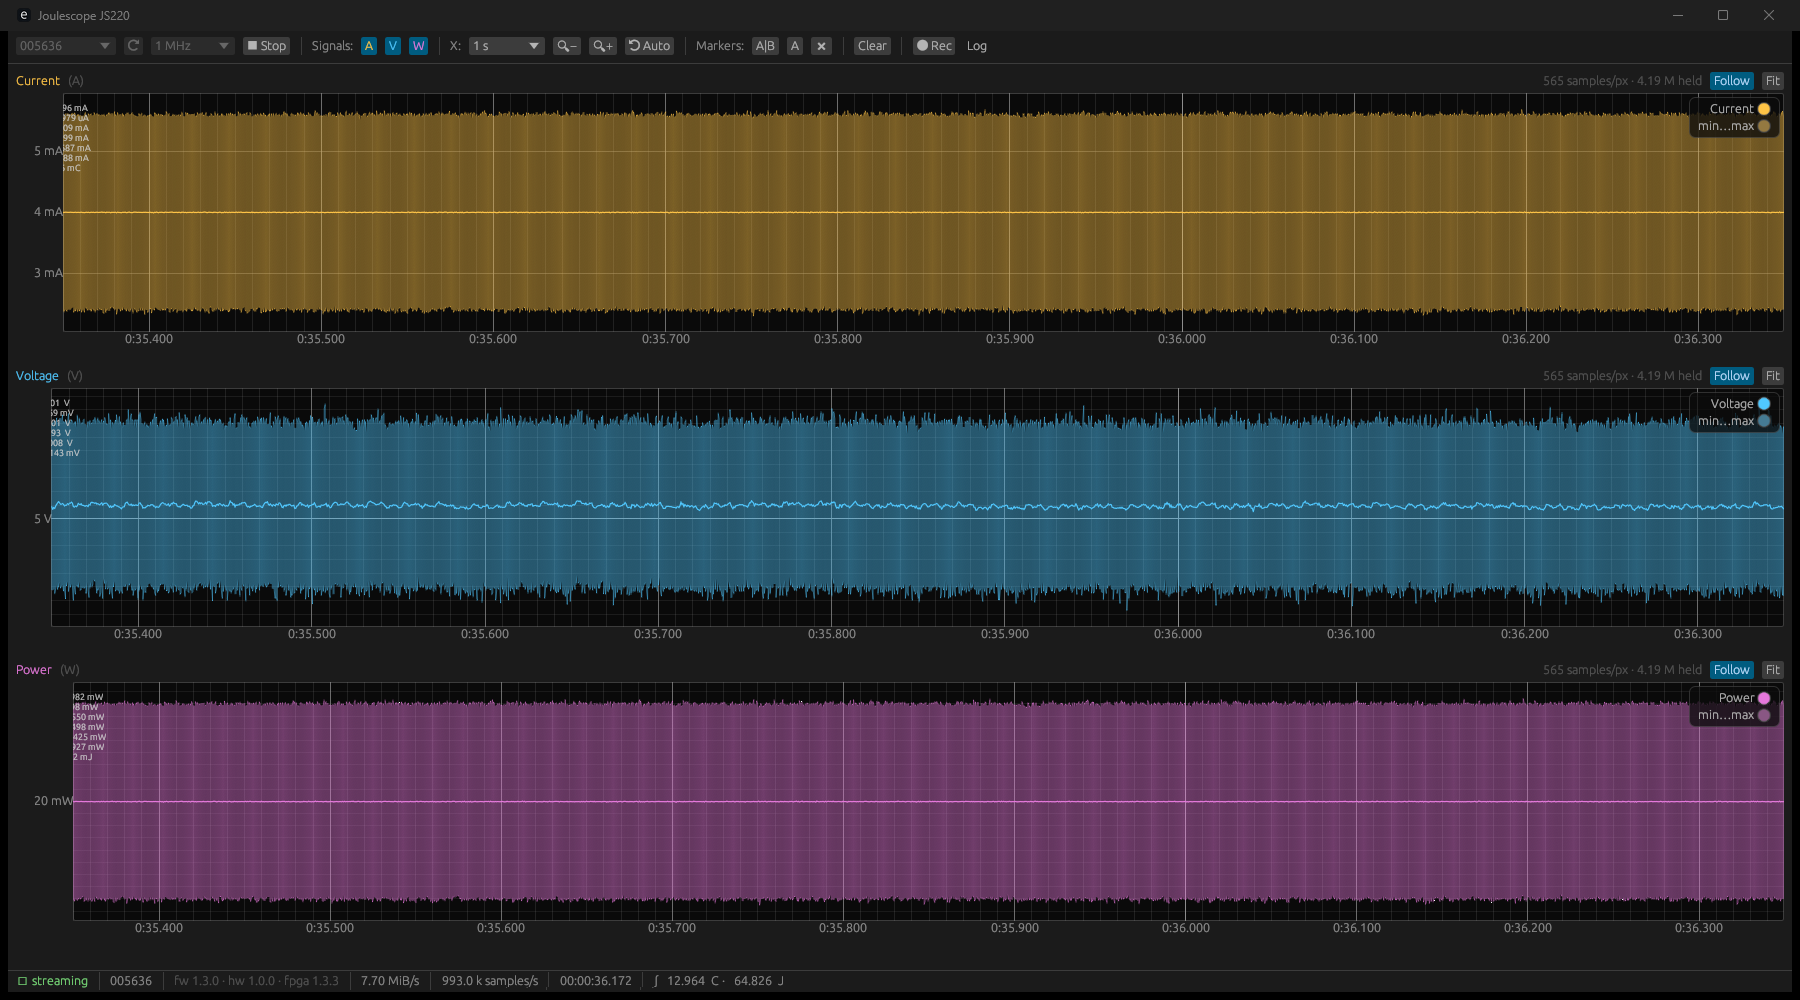
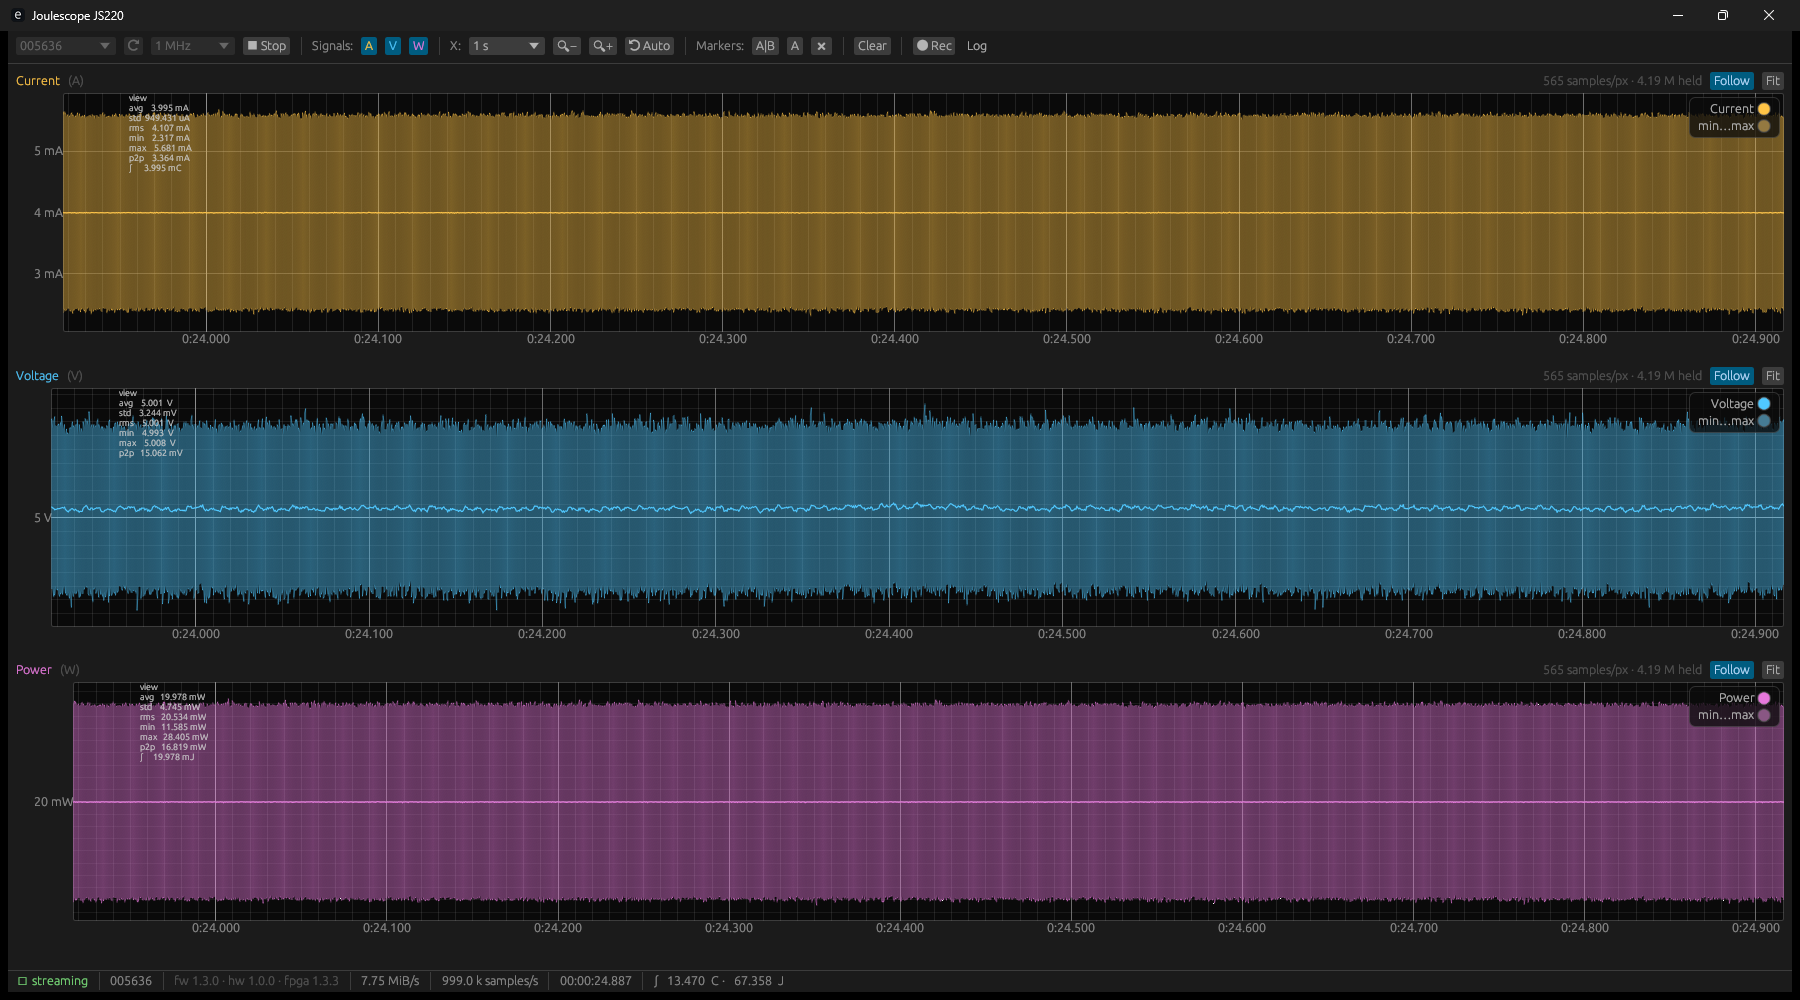
fix(jsgui): clear the Y axis labels with the statistics block
egui draws the Y axis labels inside the plot area, so the statistics
block anchored near the left edge had its first characters hidden
behind them. Inset far enough to clear them.

Readings now agree closely with the instrument's own software on the
same load: avg 3.995 mA against 3.99448, rms 4.107 mA against 4.10734,
p2p 3.364 mA against 3.41171.

diff --git a/README.md b/README.md
@@ -80,32 +80,36 @@ jsgui           # pick a device and press Start
 jsgui --start   # begin streaming immediately
 ```
 
-Three stacked plots share a time axis: current, voltage and power. Each is
-drawn as a **min/max envelope with the mean overlaid**, so a single-sample
-spike is still visible when one pixel column covers thousands of samples —
-which a plain decimated plot would hide entirely.
+![jsgui](docs/jsgui.png)
 
-**Scaling.** Both axes pan and zoom at any time: drag to pan, wheel to zoom.
-Each plot has its own *Follow* toggle, which keeps the newest data in view and
-auto-scales Y to what is actually on screen. Taking hold of a plot turns Follow
-off for that plot alone, so the view never fights you; *Fit* resumes it. The
-toolbar's window selector chooses how much history is shown while following,
-and *Auto-fit* resumes following everywhere.
+**Resolution follows the view.** Recent samples are retained raw and aggregated
+to whatever range is on screen, so zooming in reveals the real waveform down to
+individual samples. Aggregating once at capture time would be cheaper, but the
+detail would be gone for good and a 1 Msps signal would read as a solid block
+at every zoom. The badge on each plot says what you are looking at: `raw`, or
+how many samples each column covers, or `history` once you pan beyond the raw
+window into the coarse buffer.
 
-**Markers.** *Set A* and *Set B* place two markers, which appear at the same
-time position in all three plots. The panel then reports, per signal, the value
-at A, the value at B, the difference, the mean between them, and the minimum,
-maximum and peak-to-peak over the span — plus Δt, 1/Δt, and the charge and
-energy accumulated between the markers. The *↔A* and *↔B* buttons arm a marker
-so clicking or dragging in a plot repositions it.
+Each column is stroked from its minimum to its maximum, so a single-sample
+spike stays visible however far out you are, with the mean drawn over the top.
+
+**Scaling.** Both axes pan and zoom at any time. Each plot has a *Follow*
+toggle that tracks the newest data and auto-scales Y; grabbing a plot releases
+only that one, and *Fit* resumes. A view the data has scrolled past snaps back
+to the live edge rather than stranding you on an empty plot.
+
+**Markers.** `A|B` places a pair, `A` places one, `✖` clears them. They are
+dragged directly in any plot and appear at the same instant in all of them.
+Each is labelled with the value underneath it, and the span's statistics are
+drawn beside it inside the plot — avg, std, rms, min, max, p2p, and the time
+integral where one is meaningful, so current integrates to charge and power to
+energy but voltage gets none.
 
 **Recording** writes the same interleaved little-endian `f32` format `jsctl`
 produces, so the two are interchangeable.
 
 The acquisition thread owns the device and never blocks on rendering: a host
 that stops draining the bulk IN queue makes the *device* drop samples silently.
-Samples are folded into display buckets as they arrive, so the GUI only ever
-handles a few thousand points per signal no matter the sample rate.
 
 ## Design
 
